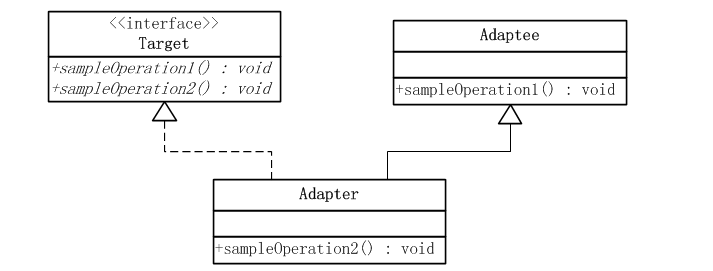
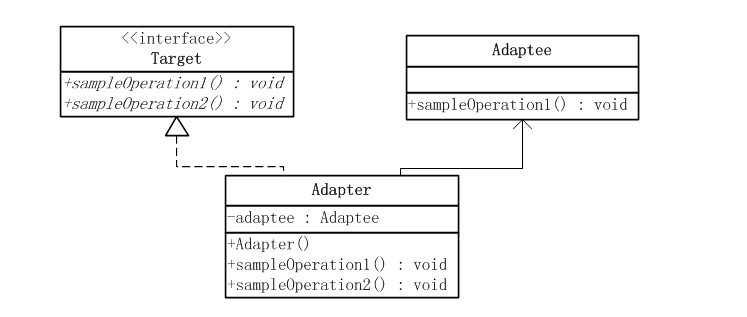
适配器模式

Changed region(s): [[0.0617, 0.0295, 0.7097, 1.0], [0.5245, 0.059, 0.8948, 0.4723]]

diff --git a/src/main/java/cn/cy/adapterPattern/AdapterPattern.java b/src/main/java/cn/cy/adapterPattern/AdapterPattern.java
@@ -3,5 +3,56 @@ package cn.cy.adapterPattern;
 /**
  * Created by zhouzhaohui on 2017/8/10.
  */
+//Adapee 源目标
+class AmericaPower {
+
+  void threeStep() {
+        System.out.println("我是三边形插头");
+    }
+}
+//target
+interface ChinaPower {
+    void twoStep();
+}
+//adapter
+class AdapterPower extends AmericaPower implements ChinaPower {
+
+    @Override
+    public void twoStep() {
+        this.threeStep();
+    }
+}
+//------------------------------分割线------------------------------------------------------
+//对象适配器
+interface  Target {
+
+    //源没有的方法
+    void sampleOperation2();
+}
+//源目标
+class  Adaptee {
+    void sampleOperation1() {
+        System.out.println("源方法");
+    }
+}
+
+//adapter
+class Adapter implements Target {
+    private Adaptee adaptee;
+    private Adapter(Adaptee adaptee) {
+        this.adaptee = adaptee;
+    }
+
+
+    @Override
+    public void sampleOperation2() {
+        this.adaptee.sampleOperation1();
+    }
+}
 public class AdapterPattern {
+    public static void main(String[] args) {
+        //类适配器测试
+        ChinaPower chinaPower = new AdapterPower();
+        chinaPower.twoStep();
+    }
 }

diff --git a/src/main/java/cn/cy/adapterPattern/README.md b/src/main/java/cn/cy/adapterPattern/README.md
@@ -2,7 +2,28 @@
 参考文章：http://www.cnblogs.com/java-my-life/archive/2012/04/13/2442795.html
 适配器模式把一个类的接口变换成客户端所期待的另一种接口，从而使原本因接口不匹配而无法在一起工作的两个类能够在一起工作。
 适配器模式有类的适配器模式和对象的适配器模式两种不同的形式。
-类适配器模式
+类适配器模式（主要是继承）
   类的适配器模式把适配的类的API转换成为目标类的API。
 类图如下：
-   ![Image text](https://github.com/zhouzhaohui10001/designPattern/raw/master/images/objectAdapter.png)
+   ![Image text](https://github.com/zhouzhaohui10001/designPattern/raw/master/images/classAdapter.png)
+在上图中可以看出，Adaptee类并没有sampleOperation2()方法，而客户端则期待这个方法。为使客户端能够使用Adaptee类，
+提供一个中间环节，即类Adapter，把Adaptee的API与Target类的API衔接起来。Adapter与Adaptee是继承关系，
+这决定了这个适配器模式是类的：
+模式所涉及的角色有：
+       目标(Target)角色：这就是所期待得到的接口。注意：由于这里讨论的是类适配器模式，因此目标不可以是类。
+       源(Adapee)角色：现在需要适配的接口。
+       适配器(Adaper)角色：适配器类是本模式的核心。适配器把源接口转换成目标接口。显然，这一角色不可以是接口，
+       而必须是具体类。
+示例：像是你的电脑的电源一样，可以将220v的电压转化为你电脑能够承受的电压，又如从美国带回来的电器，
+需要一个适配电源将电压220v改成110v
+
+对象适配器
+  与类的适配器模式一样，对象的适配器模式把被适配的类的API转换成为目标类的API，与类的适配器模式不同的是，
+  对象的适配器模式不是使用继承关系连接到Adaptee类，
+  而是使用委派关系连接到Adaptee类。（感觉项目中这种用的多 错觉？？）
+类图
+    ![Image text](https://github.com/zhouzhaohui10001/designPattern/raw/master/images/objectAdapter.png)
+从上图可以看出，Adaptee类并没有sampleOperation2()方法，而客户端则期待这个方法。为使客户端能够使用Adaptee类，
+需要提供一个包装(Wrapper)类Adapter。
+这个包装类包装了一个Adaptee的实例，从而此包装类能够把Adaptee的API与Target类的API衔接起来。
+Adapter与Adaptee是委派关系，这决定了适配器模式是对象的。
